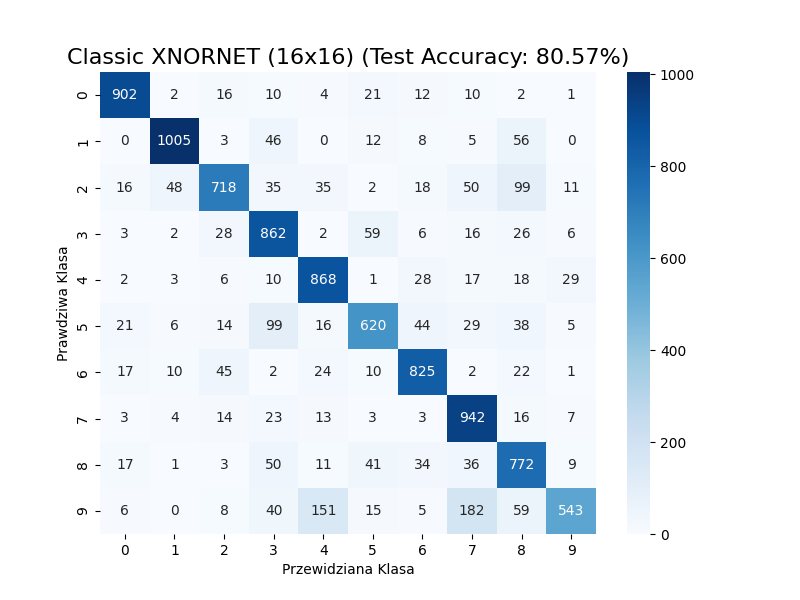
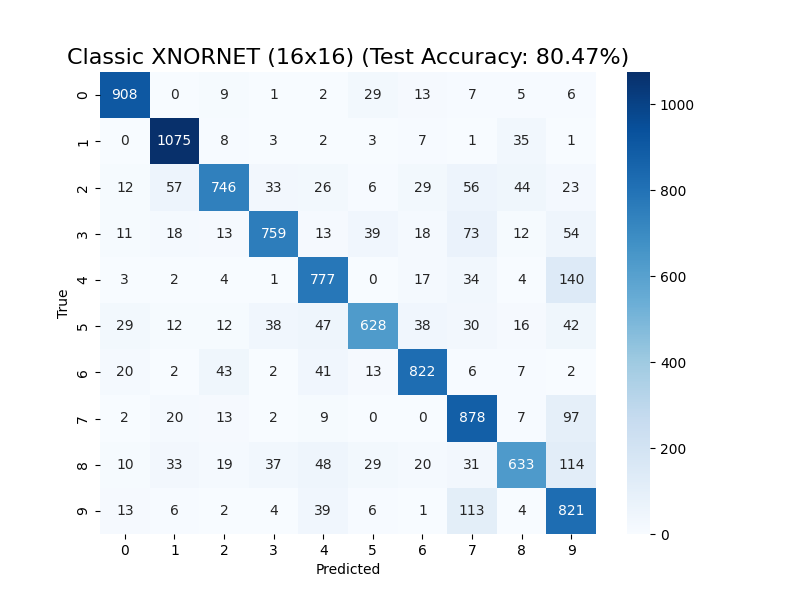
Images with ENG labels and train acc update

diff --git a/classic_16x16_model.py b/classic_16x16_model.py
@@ -1,4 +1,4 @@
-# train accuracy: 78.94%
+# train accuracy: 79.61%
 
 import tensorflow as tf
 import numpy as np

diff --git a/classic_28x28_model.py b/classic_28x28_model.py
@@ -1,4 +1,4 @@
-# train accuracy: 82.79%
+# train accuracy: 82.92%
 
 import tensorflow as tf
 import numpy as np

diff --git a/classic_cnn.py b/classic_cnn.py
@@ -1,4 +1,4 @@
-# train accuracy: 91.79%
+# train accuracy: 92.38%
 
 import tensorflow as tf
 import numpy as np

diff --git a/cnn.py b/cnn.py
@@ -1,3 +1,5 @@
+# train accuracy: 92.38%
+
 import numpy as np
 import neal
 import matplotlib.pyplot as plt
